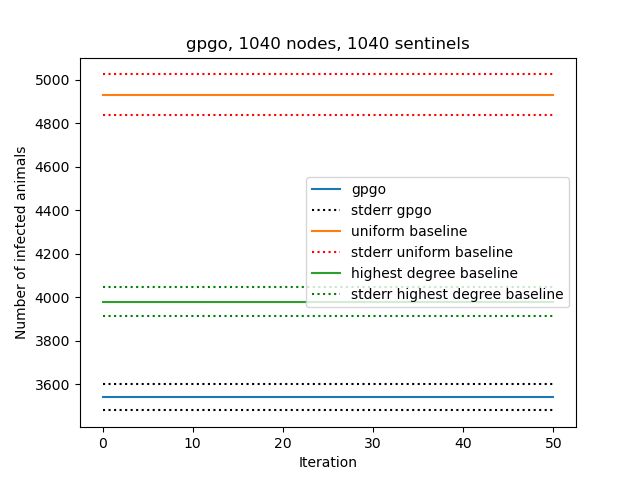
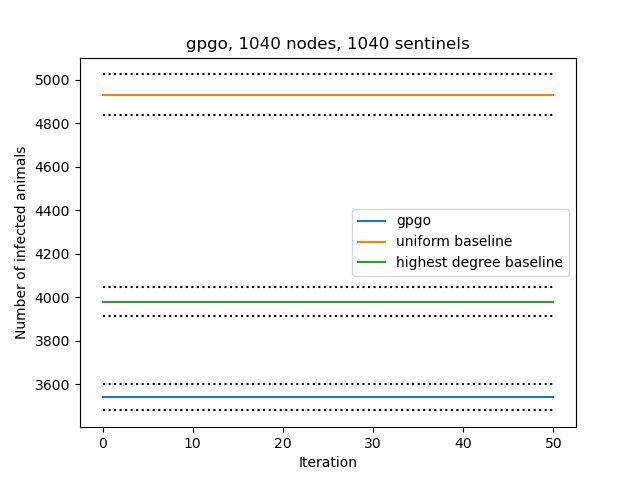
eval scripts

Changed region(s): [[0.4688, 0.375, 0.9062, 0.6562]]

diff --git a/src/bbo_create_combined_plots.py b/src/bbo_create_combined_plots.py
@@ -1,3 +1,7 @@
+'''
+Create plots containing the results of multiple optimizers
+'''
+
 import numpy as np
 import os
 import pylab as plt
@@ -11,6 +15,8 @@ from pyoptes import plot_optimizer_history_with_two_baselines, plot_prior, plot_
 if __name__ == '__main__':
 
     parser = argparse.ArgumentParser()
+
+    # TODO add a argument for the name of the plotS
 
     parser.add_argument('--path_plot', default='pyoptes/optimization/budget_allocation/blackbox_learning/plots/',
                         help="Optimizer parameter. Location where all the individual results"
@@ -94,26 +100,20 @@ if __name__ == '__main__':
     # TODO maybe set desired parameters with command line arguments, then search the plots directory for all
     # all experiments satisfying the desired settings
 
-    p = glob.glob(os.path.join(args.path_plot, '**nodes_1040*'))
-
-    print(p)
-    print(daf)
-
-    c = os.path.join(args.path_plot, '20220611_cma_rms_nodes_1040')
-    g = os.path.join(args.path_plot, '20220611_gpgo_rms_nodes_1040')
-
-    path_data_optimizer = [c, g]
+    paths_experiment_params = glob.glob(os.path.join(args.path_plot, '**/experiment_hyperparameters.json'))
 
     data_optimizer = []
-    data_baseline = []
 
     # TODO glob all directories, but use if statments to extract only data specified in arguments (optimizer, statistic, etc.)
     # or give the name of directories directly
-    for path_data in path_data_optimizer:
+    for experiment_params in tqdm(paths_experiment_params):
 
-        experiment_params = os.path.join(path_data, 'experiment_hyperparameters.json')
         with open(experiment_params, 'r') as f:
             hyperparameters = json.load(f)
+
+        # compare the set of desired parameters with the ones in the experiment_params file
+
+        arguments_dict = vars(args)
 
         optimizer = hyperparameters['optimizer_hyperparameters']['optimizer']
         network_type = hyperparameters['simulation_hyperparameters']['graph']
@@ -123,35 +123,38 @@ if __name__ == '__main__':
 
         statistic = hyperparameters['simulation_hyperparameters']['statistic']
 
-        raw_data = load_raw_data(os.path.join(path_data, 'raw_data/'))
-
-        # compute the averages of the c_raw_data
-        optimizer_history, stderr_history = compute_average_otf_and_stderr(raw_data['list_best_solution_history'],
-                                                                           raw_data['list_stderr_history'],
-                                                                           n_runs)
-
-        baseline_mean, baseline_stderr = compute_average_otf_and_stderr(raw_data['list_baseline_otf'],
-                                                                        raw_data['list_baseline_otf_stderr'],
-                                                                        n_runs)
-
-        prior_mean, prior_stderr = compute_average_otf_and_stderr(raw_data['list_all_prior_tf'],
-                                                                  raw_data['list_all_prior_stderr'],
-                                                                  n_runs)
-
-        do = {'optimizer_history': optimizer_history,
-              'stderr_history': stderr_history,
-              'optimizer': optimizer}
-
-        data_optimizer.append(do)
-
-    # TODO add option to plot multiple baselines
-    data_baseline = [{'baseline_mean': baseline_mean,
-                      'baseline_stderr': baseline_stderr,
-                      'name': 'uniform'},
-                     {'baseline_mean': prior_mean[1],
-                      'baseline_stderr': prior_stderr[1],
-                      'name': 'highest degree'}]
-
-    plot_multiple_optimizer(args.path_plot, data_optimizer, data_baseline, n_nodes, sentinels)
+    # # save date of the experiment for plotting
+    #     raw_data = load_raw_data(os.path.join(path_data, 'raw_data/'))
+    #
+    #     # compute the averages of the c_raw_data
+    #     optimizer_history, stderr_history = compute_average_otf_and_stderr(raw_data['list_best_solution_history'],
+    #                                                                        raw_data['list_stderr_history'],
+    #                                                                        n_runs)
+    #
+    #     baseline_mean, baseline_stderr = compute_average_otf_and_stderr(raw_data['list_baseline_otf'],
+    #                                                                     raw_data['list_baseline_otf_stderr'],
+    #                                                                     n_runs)
+    #
+    #     prior_mean, prior_stderr = compute_average_otf_and_stderr(raw_data['list_all_prior_tf'],
+    #                                                               raw_data['list_all_prior_stderr'],
+    #                                                               n_runs)
+    #
+    #     do = {'optimizer_history': optimizer_history,
+    #           'stderr_history': stderr_history,
+    #           'optimizer': optimizer}
+    #
+    #     data_optimizer.append(do)
+    #
+    # # as the baseline are taken from the last experiment in the loop, it is not advised to mix experiments with different
+    # # number of nodes
+    # # TODO add option to plot multiple baselines
+    # data_baseline = [{'baseline_mean': baseline_mean,
+    #                   'baseline_stderr': baseline_stderr,
+    #                   'name': 'uniform'},
+    #                  {'baseline_mean': prior_mean[1],
+    #                   'baseline_stderr': prior_stderr[1],
+    #                   'name': 'highest degree'}]
+    #
+    # plot_multiple_optimizer(args.path_plot, data_optimizer, data_baseline, n_nodes, sentinels)
 
 

diff --git a/src/bbo_create_individual_plots.py b/src/bbo_create_individual_plots.py
@@ -35,35 +35,49 @@ if __name__ == '__main__':
 
         # get the path to the experiment
         path_experiment = os.path.split(experiment_params)[0]
+        experiment_directory = os.path.split(experiment_params)[0]
+        experiment_name = os.path.split(experiment_directory)[1][9:]
 
-        # load the raw data from the experiment and compute the average OTF and STDERR
-        # for the optimizer, the baseline and the prior
-        path_raw_data = os.path.join(path_experiment, 'raw_data/')
-        raw_data = load_raw_data(path_raw_data)
+        #
+        add_to_plots = True
+        if optimizer == 'gpgo':
+            if hyperparameters['optimizer_hyperparameters']['prior_only_baseline'] == True:
+                add_to_plots = False
+            else:
+                add_to_plots = True
+        else:
+            add_to_plots = True
 
-        optimizer_history, stderr_history = compute_average_otf_and_stderr(raw_data['list_best_solution_history'],
-                                                                           raw_data['list_stderr_history'],
-                                                                           n_runs)
+        if add_to_plots:
 
-        baseline_mean, baseline_stderr = compute_average_otf_and_stderr(raw_data['list_baseline_otf'],
-                                                                        raw_data['list_baseline_otf_stderr'],
-                                                                        n_runs)
+            # load the raw data from the experiment and compute the average OTF and STDERR
+            # for the optimizer, the baseline and the prior
+            path_raw_data = os.path.join(path_experiment, 'raw_data/')
+            raw_data = load_raw_data(path_raw_data)
 
-        prior_mean, prior_stderr = compute_average_otf_and_stderr(raw_data['list_all_prior_tf'],
-                                                                  raw_data['list_all_prior_stderr'],
-                                                                  n_runs)
+            optimizer_history, stderr_history = compute_average_otf_and_stderr(raw_data['list_best_solution_history'],
+                                                                               raw_data['list_stderr_history'],
+                                                                               n_runs)
 
-        # ---------------------------------------------------------------------------------------------------------
-        # plot optimizer history against uniform and highest degree baseline
-        plot_name = '_average_plot2'
-        plot_optimizer_history_with_two_baselines(optimizer_history, stderr_history,
-                                                  baseline_mean, baseline_stderr,
-                                                  prior_mean, prior_stderr,
-                                                  n_nodes, sentinels, path_experiment, optimizer, plot_name)
+            baseline_mean, baseline_stderr = compute_average_otf_and_stderr(raw_data['list_baseline_otf'],
+                                                                            raw_data['list_baseline_otf_stderr'],
+                                                                            n_runs)
 
-        # create a bar plot of all strategies in the prior
-        plot_prior(path_experiment, n_nodes, prior_mean, prior_stderr, n_runs)
+            prior_mean, prior_stderr = compute_average_otf_and_stderr(raw_data['list_all_prior_tf'],
+                                                                      raw_data['list_all_prior_stderr'],
+                                                                      n_runs)
 
-        # TODO plot prior for each optimizer
+            # ---------------------------------------------------------------------------------------------------------
+            # plot optimizer history against uniform and highest degree baseline
+            plot_name = '_average_plot2'
+            plot_optimizer_history_with_two_baselines(optimizer_history, stderr_history,
+                                                      baseline_mean, baseline_stderr,
+                                                      prior_mean, prior_stderr,
+                                                      n_nodes, sentinels, path_experiment, optimizer, plot_name)
 
-        # TODO add the 'default' plot fro each experiment
+            # create a bar plot of all strategies in the prior
+            plot_prior(path_experiment, n_nodes, prior_mean, prior_stderr, n_runs)
+
+            # TODO plot prior for each optimizer
+
+            # TODO add the 'default' plot fro each experiment

diff --git a/src/bbo_explore_evaluation.py b/src/bbo_explore_evaluation.py
@@ -1,0 +1,30 @@
+'''
+Compute the target function value
+
+'''
+
+from pyoptes import create_graph, compute_average_otf_and_stderr
+
+import glob
+import json
+import os
+import argparse
+import numpy as np
+from tqdm import tqdm
+from scipy.spatial.distance import euclidean
+import pylab as plt
+
+if __name__ == '__main__':
+
+    path_to_optimizer = 'pyoptes/optimization/budget_allocation/blackbox_learning/plots/**/evaluation_output.txt'
+
+    #
+    optimizer_output = glob.glob(path_to_optimizer)
+    print(np.shape(optimizer_output))
+    for evaluation_output in optimizer_output:
+
+        with open(evaluation_output, 'r') as f:
+            lines = f.readlines()
+        print(lines)
+
+        break

diff --git a/src/bbo_explore_optimizer.py b/src/bbo_explore_optimizer.py
@@ -36,7 +36,7 @@ if __name__ == '__main__':
 
         experiment_directory = os.path.split(experiment_params)[0]
         experiment_name = os.path.split(experiment_directory)[1][9:]
-
+        print(experiment_name)
         uniform_baseline = np.array([total_budget / n_nodes for _ in range(n_nodes)])
 
         # iterate over n_runs and load the data

diff --git a/src/bbo_inspect_test_strategies.py b/src/bbo_inspect_test_strategies.py
@@ -1,3 +1,7 @@
+'''
+Creates
+'''
+
 from pyoptes import create_graph, scatter_plot, get_node_attributes
 
 import argparse
